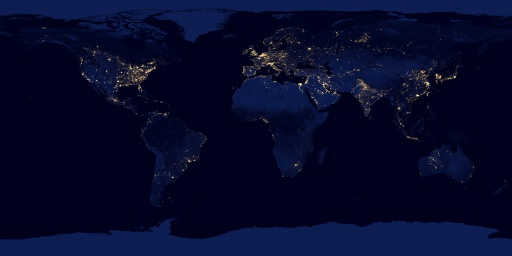
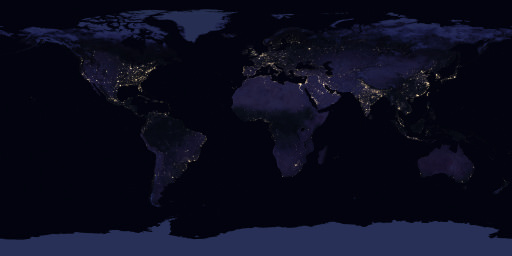
- New night texture (NASA Black Marble 2016) - Minor edits - Switched version to 2.2.10

diff --git a/FMCommDlg/CBackstageWnd.cpp b/FMCommDlg/CBackstageWnd.cpp
@@ -544,15 +544,15 @@ void CBackstageWnd::PaintCaption(CPaintDC& pDC, CRect& rect)
 		FillRect(dc, rectCaption, hBackgroundBrush ? hBackgroundBrush : (HBRUSH)GetStockObject(DKGRAY_BRUSH));
 
 		// Caption
-		CString strCaption;
+		CString Caption;
 
 		if (m_ShowExpireCaption)
 		{
-			ENSURE(strCaption.LoadString(IDS_EXPIRECAPTION));
+			ENSURE(Caption.LoadString(IDS_EXPIRECAPTION));
 		}
 		else
 		{
-			GetWindowText(strCaption);
+			GetWindowText(Caption);
 		}
 
 		CFont* pOldFont = dc.SelectObject(&FMGetApp()->m_SmallBoldFont);
@@ -565,13 +565,13 @@ void CBackstageWnd::PaintCaption(CPaintDC& pDC, CRect& rect)
 		if (Themed)
 		{
 			dc.SetTextColor(0x000000);
-			dc.DrawText(strCaption, rectText, DT_SINGLELINE | DT_VCENTER | DT_NOPREFIX | DT_END_ELLIPSIS);
+			dc.DrawText(Caption, rectText, DT_SINGLELINE | DT_VCENTER | DT_NOPREFIX | DT_END_ELLIPSIS);
 		}
 
 		rectText.OffsetRect(0, 1);
 
 		dc.SetTextColor(Themed ? m_ShowExpireCaption ? 0x4840F0 : IsWindowEnabled() ? 0xDACCC4 : 0x998981 : m_ShowExpireCaption ? 0x0000FF : GetSysColor(IsWindowEnabled() ? COLOR_3DFACE : COLOR_3DSHADOW));
-		dc.DrawText(strCaption, rectText, DT_SINGLELINE | DT_VCENTER | DT_NOPREFIX | DT_END_ELLIPSIS);
+		dc.DrawText(Caption, rectText, DT_SINGLELINE | DT_VCENTER | DT_NOPREFIX | DT_END_ELLIPSIS);
 
 		dc.SelectObject(pOldFont);
 

diff --git a/Flightmap/MapSettingsDlg.cpp b/Flightmap/MapSettingsDlg.cpp
@@ -181,11 +181,8 @@ BOOL MapSettingsDlg::InitDialog()
 	m_ResolutionPresetIconsImageList.Attach(m_ResolutionPresetIcons.ExtractImageList());
 	m_wndResolutionList.SetImageList(&m_ResolutionPresetIconsImageList, LVSIL_SMALL);
 
-	ENSURE(tmpStr.LoadString(IDS_COLUMN_RESOLUTION));
-	m_wndResolutionList.AddColumn(0, tmpStr);
-
-	ENSURE(tmpStr.LoadString(IDS_COLUMN_APPLICATION));
-	m_wndResolutionList.AddColumn(1, tmpStr);
+	m_wndResolutionList.AddColumn(0, CString((LPCSTR)IDS_COLUMN_RESOLUTION));
+	m_wndResolutionList.AddColumn(1, CString((LPCSTR)IDS_COLUMN_APPLICATION));
 
 	BOOL bUserDefined = TRUE;
 	static UINT puColumns[1] = { 1 };
@@ -227,10 +224,7 @@ BOOL MapSettingsDlg::InitDialog()
 
 	// Tab 1
 	for (UINT a=0; a<4; a++)
-	{
-		ENSURE(tmpStr.LoadString(IDS_BACKGROUND_DEFAULT+a));
-		m_wndBackground.AddString(tmpStr);
-	}
+		m_wndBackground.AddString(CString((LPCSTR)(IDS_BACKGROUND_DEFAULT+a)));
 
 	m_wndBackground.SetCurSel(theApp.m_MapSettings.Background);
 	m_wndColorIndicatorBackground.SetColor(m_clrBackground=theApp.m_MapSettings.BackgroundColor);

diff --git a/Flightmap/CFileView.cpp b/Flightmap/CFileView.cpp
@@ -121,7 +121,7 @@ void CFileView::Init()
 	m_wndExplorerList.Create(WS_VISIBLE | WS_CHILD | WS_CLIPCHILDREN | WS_CLIPSIBLINGS | WS_TABSTOP | LVS_OWNERDATA | LVS_EDITLABELS | LVS_SHAREIMAGELISTS, CRect(0, 0, 0, 0), this, 2);
 
 	m_wndExplorerList.SetImageList(&theApp.m_SystemImageListSmall, LVSIL_SMALL);
-	m_wndExplorerList.SetImageList(&theApp.m_SystemImageListLarge, LVSIL_NORMAL);
+	m_wndExplorerList.SetImageList(&theApp.m_SystemImageListExtraLarge, LVSIL_NORMAL);
 
 	for (UINT a=0; a<4; a++)
 		m_wndExplorerList.AddColumn(a, CString((LPCSTR)IDS_SUBITEM_NAME+a), 100, a);
@@ -585,7 +585,7 @@ void CFileView::OnRequestTooltipData(NMHDR* pNMHDR, LRESULT* pResult)
 		{
 UseIcon:
 			// Icon
-			pTooltipData->hIcon = FMGetApp()->m_SystemImageListLarge.ExtractIcon(pAttachment->IconID);
+			pTooltipData->hIcon = FMGetApp()->m_SystemImageListExtraLarge.ExtractIcon(pAttachment->IconID);
 		}
 
 		delete pBitmap;

diff --git a/Flightmap/CItinerary.cpp b/Flightmap/CItinerary.cpp
@@ -120,30 +120,37 @@ void PrepareEditCtrl(CMFCMaskedEdit* pEdit, UINT Attr, AIRX_Flight* pFlight)
 
 	case FMTypeUnicodeString:
 		pEdit->SetLimitText(FMAttributes[Attr].DataParameter);
+
 		break;
 
 	case FMTypeUINT:
 		pEdit->SetLimitText(6);
 		pEdit->SetValidChars(_T("0123456789"));
+
 		break;
 
 	case FMTypeClass:
 		pEdit->SetLimitText(2);
 		pEdit->SetValidChars(_T("CFHJYcfhjy+"));
+
 		break;
 
 	case FMTypeDateTime:
 		ENSURE(tmpStr.LoadString(IDS_CUEBANNER_DATETIME));
+
 		pEdit->SetCueBanner(tmpStr);
 		pEdit->SetLimitText(16);
 		pEdit->SetValidChars(_T("0123456789:-. "));
+
 		break;
 
 	case FMTypeTime:
 		ENSURE(tmpStr.LoadString(IDS_CUEBANNER_TIME));
+
 		pEdit->SetCueBanner(tmpStr);
 		pEdit->SetLimitText(5);
 		pEdit->SetValidChars(_T("0123456789:"));
+
 		break;
 	}
 

diff --git a/Flightmap/StatisticsDlg.cpp b/Flightmap/StatisticsDlg.cpp
@@ -516,15 +516,8 @@ BOOL StatisticsDlg::OnInitDialog()
 	m_wndFilterRating.SetRating(0);
 
 	// Class
-	CString tmpName;
-	CString tmpHint;
-
-	ENSURE(tmpName.LoadString(IDS_REVENUEFLIGHTS));
-	m_wndListClass.AddCategory(0, tmpName, _T(""), TRUE);
-
-	ENSURE(tmpName.LoadString(IDS_NONREVFLIGHTS));
-	ENSURE(tmpHint.LoadString(IDS_INCLUDESCREW));
-	m_wndListClass.AddCategory(1, tmpName, tmpHint, TRUE);
+	m_wndListClass.AddCategory(0, CString((LPCSTR)IDS_REVENUEFLIGHTS), _T(""));
+	m_wndListClass.AddCategory(1, CString((LPCSTR)IDS_NONREVFLIGHTS), CString((LPCSTR)IDS_INCLUDESCREW), TRUE);
 
 	m_wndListClass.AddColumn(0, _T(""));
 	m_wndListClass.AddColumn(1, _T(""));

diff --git a/FMCommDlg/FMApplication.cpp b/FMCommDlg/FMApplication.cpp
@@ -141,9 +141,6 @@ FMApplication::FMApplication(GUID& AppID)
 	if (SUCCEEDED(SHGetImageList(SHIL_SMALL, IID_IImageList, (void**)&il)))
 		m_SystemImageListSmall.Attach((HIMAGELIST)il);
 
-	if (SUCCEEDED(SHGetImageList(SHIL_LARGE, IID_IImageList, (void**)&il)))
-		m_SystemImageListLarge.Attach((HIMAGELIST)il);
-
 	if (SUCCEEDED(SHGetImageList(SHIL_EXTRALARGE, IID_IImageList, (void**)&il)))
 		m_SystemImageListExtraLarge.Attach((HIMAGELIST)il);
 }

diff --git a/Flightmap/ChooseDetailsDlg.cpp b/Flightmap/ChooseDetailsDlg.cpp
@@ -38,7 +38,7 @@ void ChooseDetailsDlg::DoDataExchange(CDataExchange* pDX)
 			if (m_wndAttributes.GetCheck(a) || (Attr==0) || (Attr==3))
 			{
 				p_ViewParameters->ColumnWidth[Attr] = OldWidth[Attr] ? OldWidth[Attr] : FMAttributes[Attr].RecommendedWidth;
-				p_ViewParameters->ColumnOrder[Count++] = (INT)m_wndAttributes.GetItemData(a);
+				p_ViewParameters->ColumnOrder[Count++] = Attr;
 			}
 			else
 			{

diff --git a/FMCommDlg/FMCommDlg.cpp b/FMCommDlg/FMCommDlg.cpp
@@ -196,6 +196,7 @@ void DrawCategory(CDC& dc, CRect rect, LPCWSTR Caption, LPCWSTR Hint, BOOL Theme
 			dc.SetTextColor(Themed ? 0xBFB0A6 : GetSysColor(COLOR_3DSHADOW));
 
 			rect.top += rectLine.Height();
+
 			dc.SelectObject(&FMGetApp()->m_DefaultFont);
 			dc.DrawText(Hint, rect, DT_LEFT | DT_TOP | DT_END_ELLIPSIS | DT_WORDBREAK | DT_NOPREFIX);
 		}

diff --git a/FMCommDlg/FMApplication.h b/FMCommDlg/FMApplication.h
@@ -99,7 +99,6 @@ public:
 	void GetBinary(LPCTSTR lpszEntry, void* pData, UINT Size);
 
 	CImageList m_SystemImageListSmall;
-	CImageList m_SystemImageListLarge;
 	CImageList m_SystemImageListExtraLarge;
 	HBITMAP hRatingBitmaps[MaxRating+1];
 	FMFont m_DefaultFont;

diff --git a/FMCommDlg/FMTabbedDialog.cpp b/FMCommDlg/FMTabbedDialog.cpp
@@ -198,6 +198,7 @@ BOOL FMTabbedDialog::InitDialog()
 
 	// Buttons
 	HINSTANCE hInstance = LoadLibrary(_T("USER32.DLL"));
+
 	CString tmpStr;
 
 	ENSURE(tmpStr.LoadString(hInstance, 799+IDOK));
